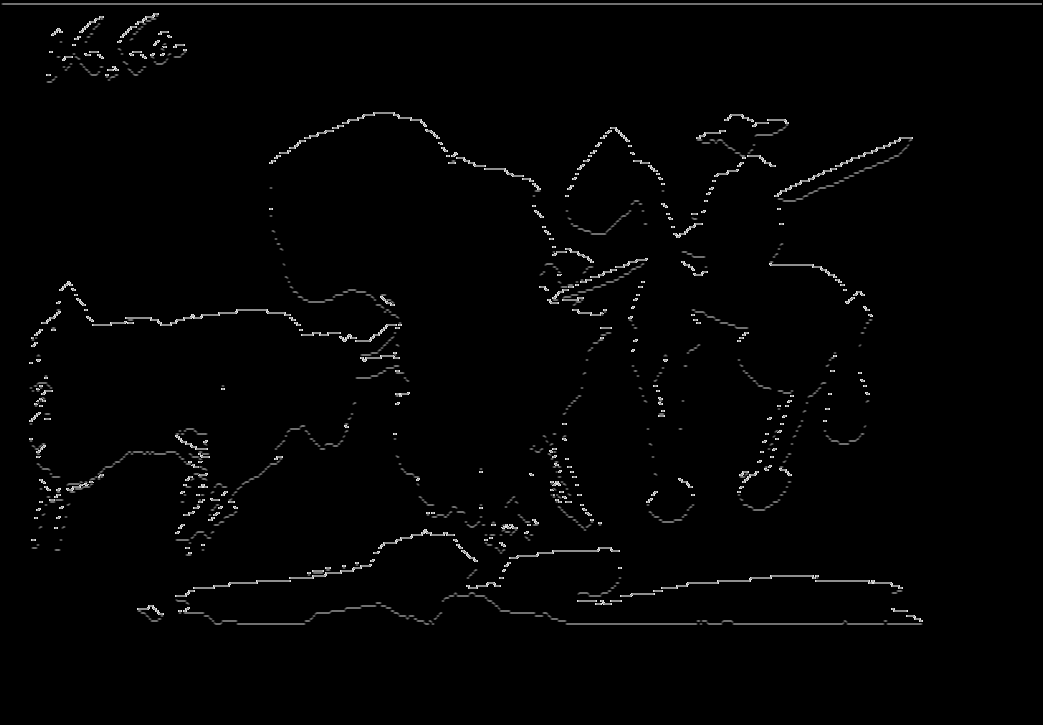
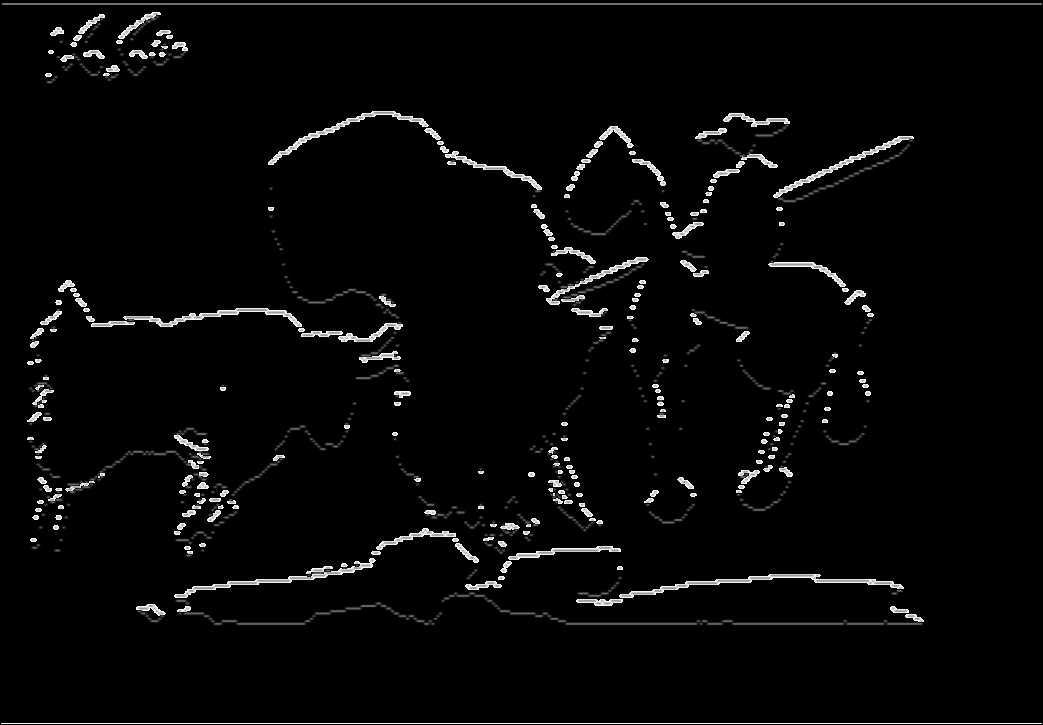
Thresholding removed from question3

diff --git a/HW1/src/question3.py b/HW1/src/question3.py
@@ -13,8 +13,6 @@ def question3_test():
 
     src_img = load_img_2D('test0.png')
 
-    threshold(src_img, 100)
-
     # Sobel operator
     filter = np.array([(-1, -2, -1),
                        ( 0,  0,  0),
